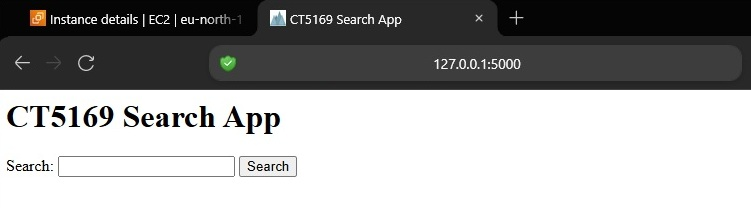
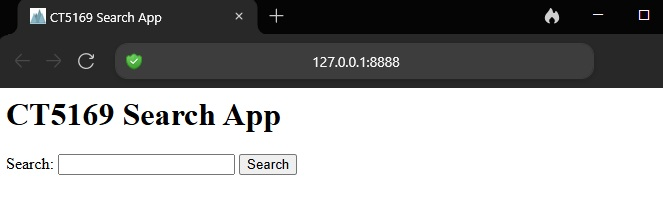
Docs(readme): Rewrite intro, update screenshots + Fix(ui): Wrap long result text

diff --git a/main.py b/main.py
@@ -184,7 +184,7 @@ def search():
         <h1>Search Result</h1>
         <p>You searched for: <strong>{safe_query}</strong></p>
         <p><strong>Source:</strong> {safe_source}</p>
-        <pre>{safe_result}</pre>
+        <pre style="white-space: pre-wrap; word-wrap: break-word;">{safe_result}</pre>
         <a href="/">Search for something else</a>
     </body>
     </html>

diff --git a/README.md b/README.md
@@ -8,9 +8,14 @@
 ![Paramiko](https://img.shields.io/badge/Paramiko-SSH-4A90E2)
 ![Release](https://img.shields.io/github/v/release/sdaly-ie/distributed-flask-wiki-cache)
 
-Type something into a search box, get a Wikipedia summary back. The interesting bit is what's under the hood: the search form and the Wikipedia lookup run on two different machines, connected over SSH, with a database cache sitting between them so repeat searches return instantly.
+# Distributed Flask Web Application with Remote Wikipedia Search and MySQL Cache
 
-Built for CT5169 (Fundamentals of Cloud Computing) at the University of Galway.
+A three-tier distributed web application demonstrating core cloud computing
+concepts: VM-to-VM networking, remote script execution over SSH, and
+database-backed caching. A Flask front end on one Ubuntu VM orchestrates a
+Wikipedia lookup that executes remotely on an Amazon EC2 instance, with a
+MySQL cache in Docker on a separate VM between them. Repeat queries are
+served from the cache in a fraction of the time.
 
 ## See it in action
 
